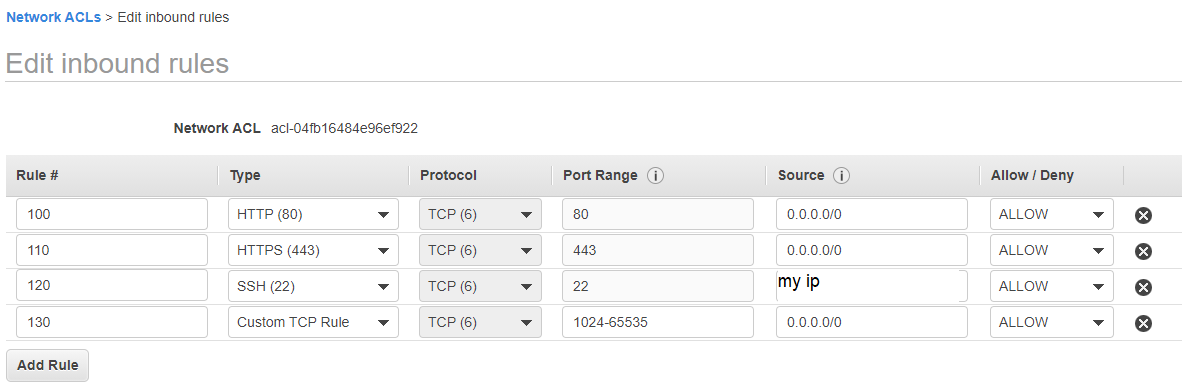
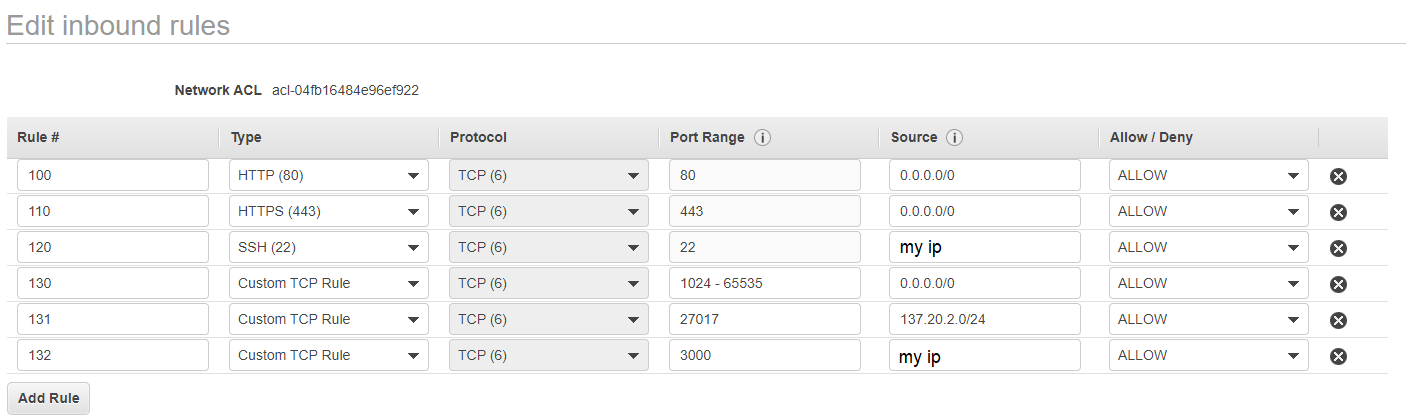
Readme updated and updated provision files added to repo

diff --git a/README.md b/README.md
@@ -23,7 +23,7 @@ Follow the instructions to set up your own VPC, with subnets to allow for a publ
 ### Route table
 - Two route tables must be created (A private and public one)
 - Then edit routes
- - both must have access to the local and internet gateway we created on port 0.0.0.0/0
+ - both must have access to the local and the public route should have internet gateway we created on port 0.0.0.0/0
 
 ![](img/editroutes.png)
 - Subnet association
@@ -34,15 +34,16 @@ Follow the instructions to set up your own VPC, with subnets to allow for a publ
 - Associate them with the corresponding subnet once created
 ![](img/networkacl.png)
 - Once created we need to set inbound and outbound rules
+- We need to allow in and out of the internet ports
+- We need to be able to SSH in from our IP, and dont mind if we SSH anywhere from the public environment
+- We want the ephemeral ports open in and out.
 
 ![](img/networkacl-inboundrules.png)
 ![](img/networkacl-outboundrules.png)
 
 - Repeat this process to create a private subnet ACL. (Keeping everything the same as public, untill we have got the app running, then change the permissions to:)
-  - Allow it public subnet to ssh in
+  - Allow the public subnet to ssh in
   - Allow the pub subnet to inbound in your db port 27017
-  - Only allow the ephemeral ports open to your public subnet
-  - Only allow any outbound traffic to http and https, dont allow any inbound http / https traffic.
   - Finally temporarily allow it to ssh in from our own IP, so we can set up the environment. Once complete we need to remove this setting.
 
 ## EC2 instance
@@ -51,11 +52,14 @@ Follow the instructions to set up your own VPC, with subnets to allow for a publ
 
 ![](img/ec2step3.png)
 
-- create a Security group for each of the EC2 instances with the following settings.
+- create a Security group for each of the EC2 instances with the following settings. The Bastion EC2 will be used to go into so we can SSH into our db instance for added security. Keep the outbound rules as all traffic open.
+- App public subnet EC2 instance security settings
+![](img/SG-app.png)
+- Bastion public subnet EC2 instance security settings
+![](img/SG-bastion.png)
 
-![App public EC2 instance](img/SG-app.png)
-
-![DB private EC2 instance](img/SG-db.png)
+- DB private subnet EC2 instance security settings
+![](img/SG-db.png)
 
 - Once reviewed and launched, we can scp the relevant files into the VM's then ssh into our VM's running the provision files.
 - Make sure the DB_HOST variable is changed to our public IP of the DB EC2 instance.
